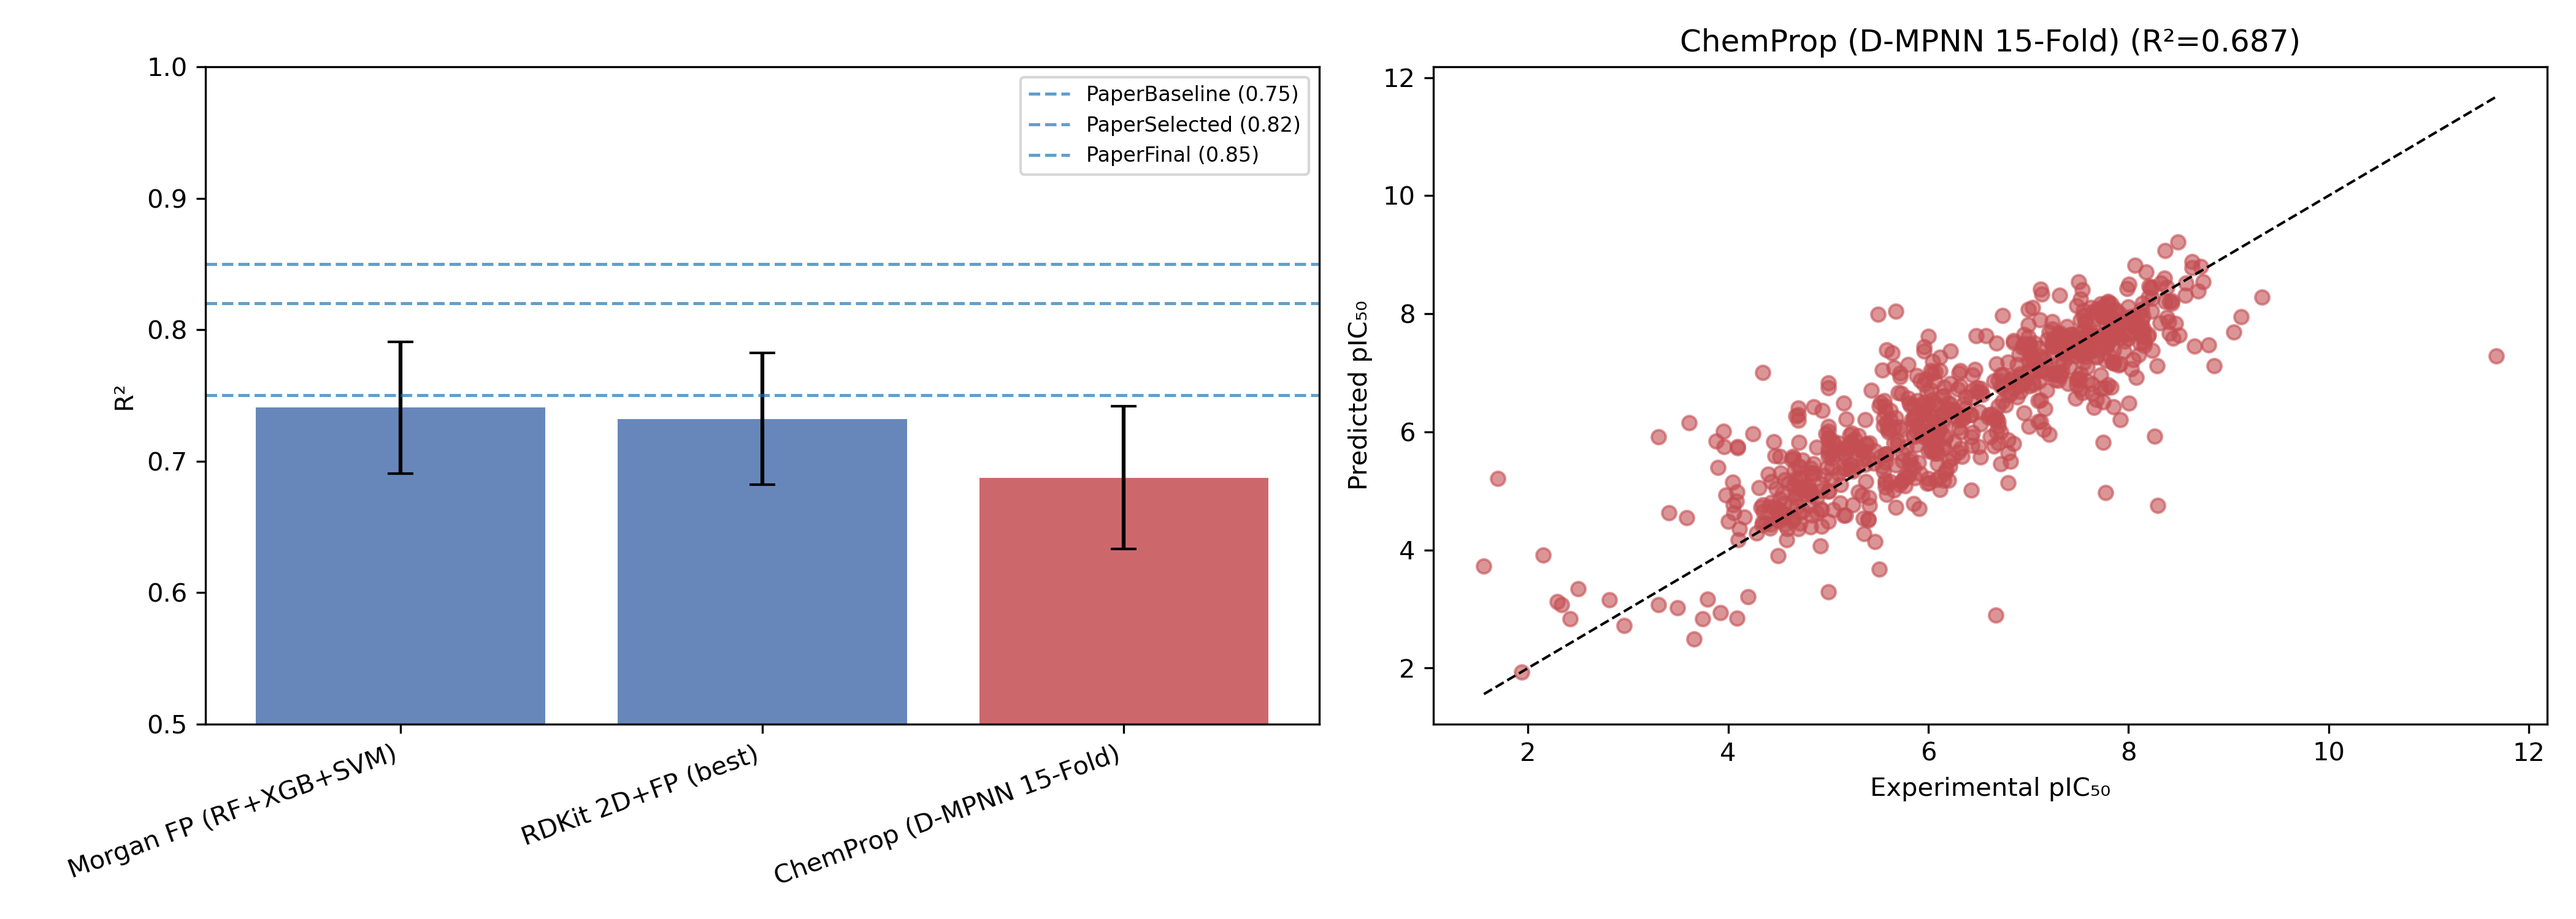
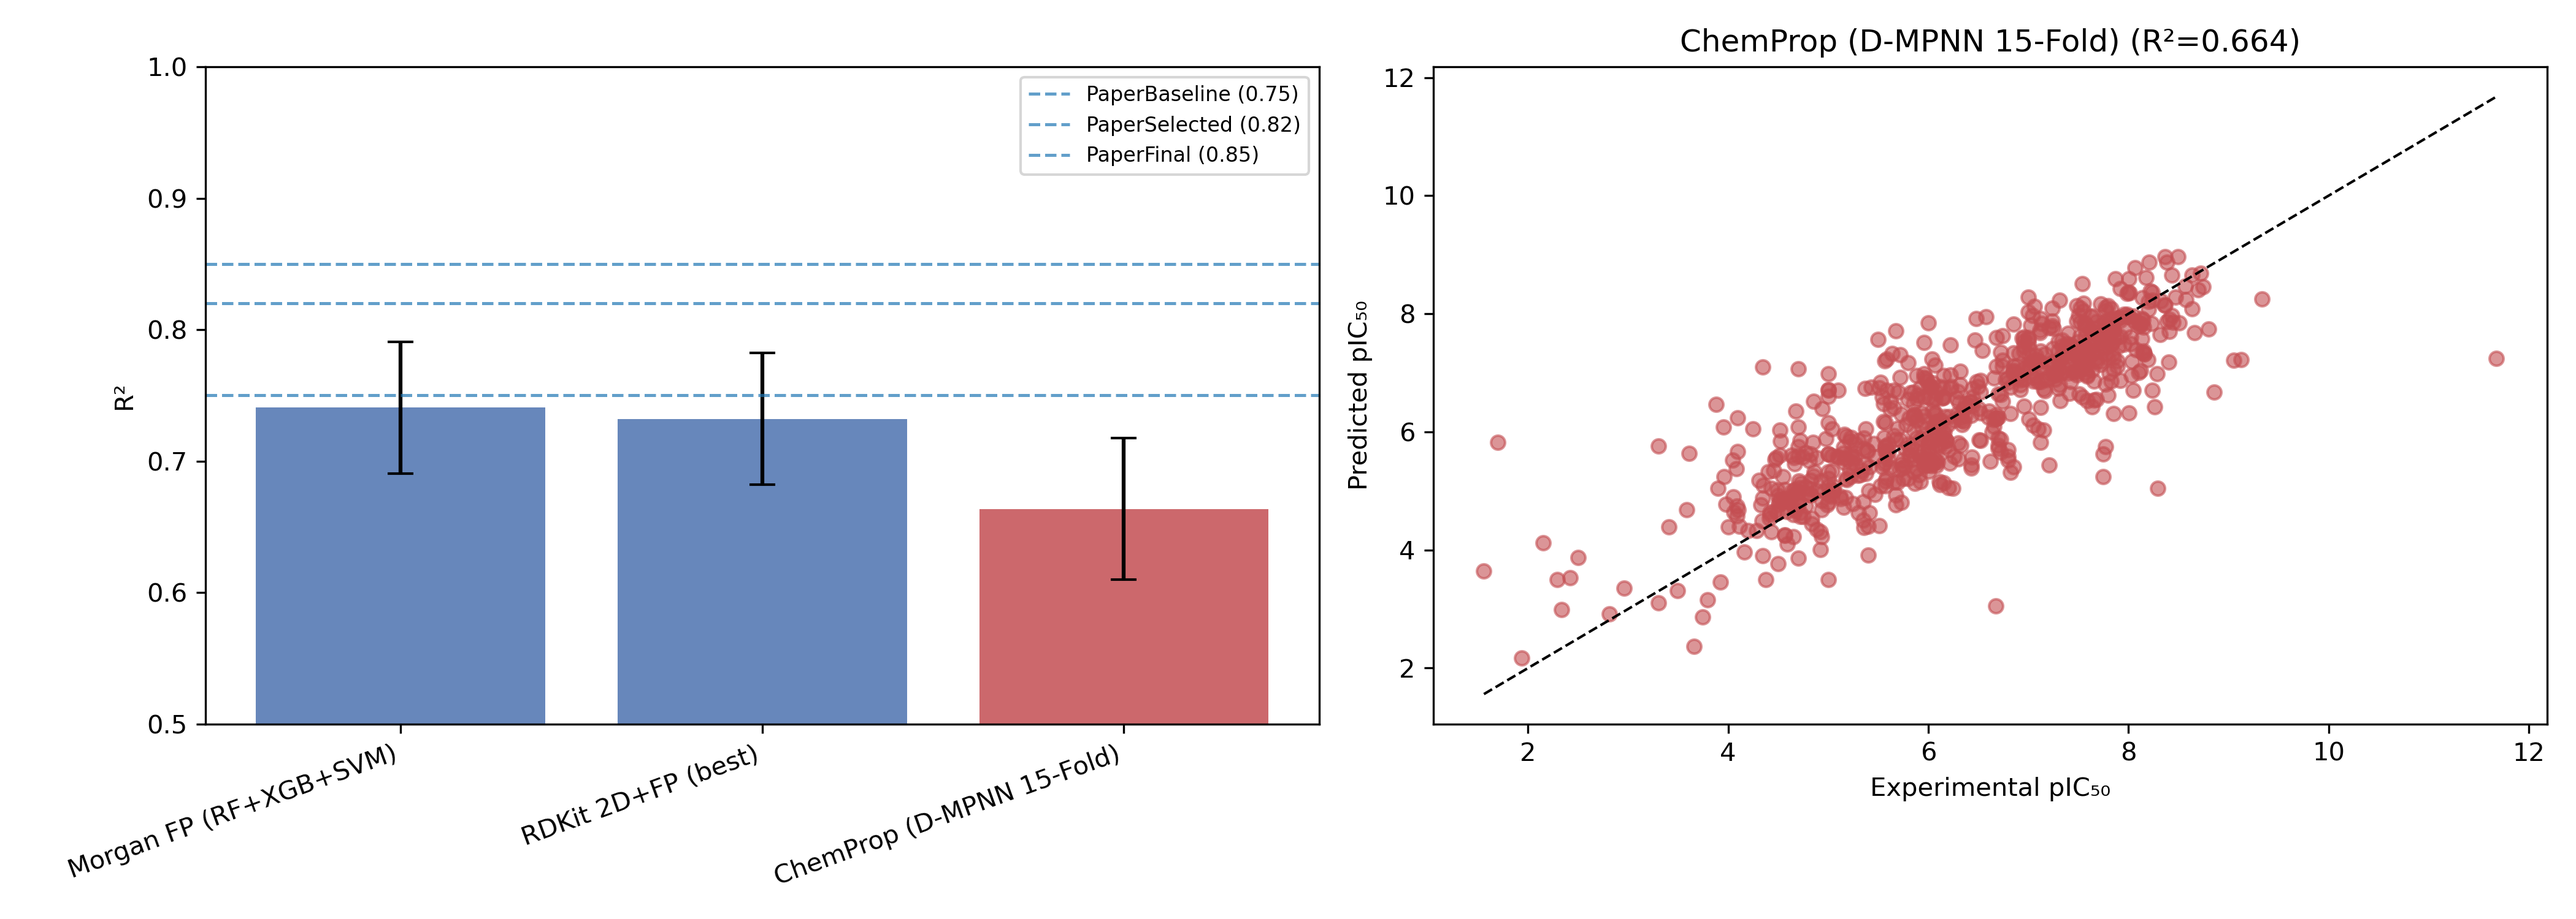
5GNN..py was run again with 15-Fold

diff --git a/latex/gnn_variables.tex b/latex/gnn_variables.tex
@@ -1,2 +1,5 @@
-\newcommand{\ChemPropDMPNN15FoldRTwoMean}{0.6873}
-\newcommand{\ChemPropDMPNN15FoldMae}{0.5275}
+\newcommand{\ChemPropDMPNN15FoldRTwoMean}{0.6636}
+\newcommand{\ChemPropDMPNN15FoldMae}{0.5501}
+\newcommand{\ChemPropDMPNN15FoldRTwoStd}{0.1063}
+\newcommand{\ChemPropDMPNN15FoldCILow}{0.6098}
+\newcommand{\ChemPropDMPNN15FoldCIHigh}{0.7174}
